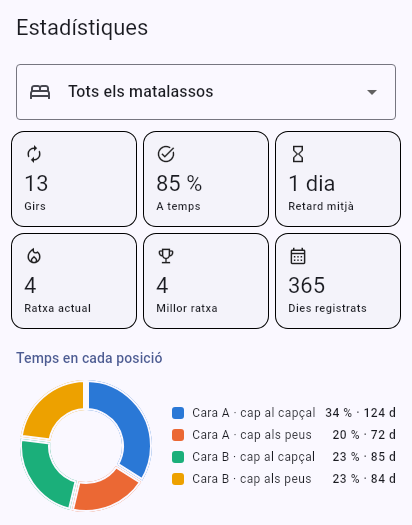
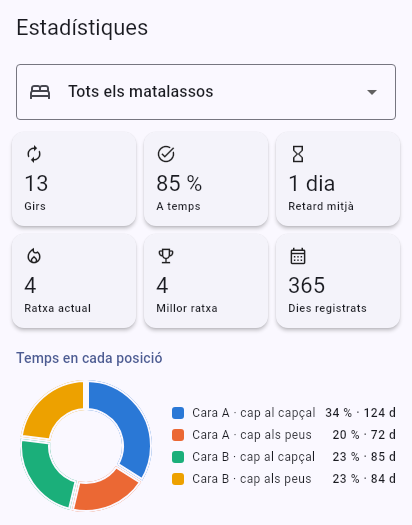
Capturas reales de la app en la portada, los pasos y Anúnciate
La portada muestra la pantalla de inicio en un móvil, cada paso de
«Cómo funciona» lleva su pantalla (aspecto, ficha y giro) y la tarjeta
de ejemplo para anunciantes usa la imagen de prueba. Las estadísticas se
regeneran con sombras reales. Todo en los tres idiomas.

Claude-Session: https://claude.ai/code/session_011JNAfkGeRBWKFEiTMfRujW

diff --git a/docs/404.html b/docs/404.html
@@ -15,7 +15,7 @@
 <meta name="theme-color" content="#2e3a73">
 <link rel="icon" type="image/png" href="/assets/img/favicon.png">
 <link rel="apple-touch-icon" href="/assets/img/apple-touch-icon.png">
-<link rel="stylesheet" href="/assets/style.css?v=9cc65efa71">
+<link rel="stylesheet" href="/assets/style.css?v=c40c323f0d">
 </head>
 <body>
 <section class="hero">
@@ -35,7 +35,7 @@
 <span class="btn btn-play" aria-disabled="true"><span class="btn-2l"><small>Próximamente en</small><span>Google Play</span></span></span>
 </div>
 </div>
-<div class="hero-art"><img src="/assets/img/flip_mid.png" alt="Dibujo de la app: un colchón volteándose sobre la cama" width="400" height="280"></div>
+<div class="hero-phone"><img src="/assets/img/pantalla_inicio_es.webp" alt="Pantalla de inicio de GiraColchón con tres colchones de distinto aspecto; a la cama de matrimonio le toca girar hoy" width="412" height="620"></div>
 </div>
 </div>
 </section>
@@ -47,7 +47,7 @@
 </div></section>
 <section class="section" id="como-funciona"><div class="wrap">
 <div class="stack"><div class="kicker">Cómo funciona</div><h2 class="section-title">Tres pasos y te olvidas del calendario</h2></div>
-<ol class="steps grid-3"><li class="card"><div class="num">1</div><h3>Añade tu colchón</h3><p class="muted">Nombre, medidas y cómo se gira: solo cabeza y pies, con volteo o con cara de invierno y de verano.</p></li><li class="card"><div class="num">2</div><h3>Recibe el aviso</h3><p class="muted">Cada semana, cada mes o al cambiar de estación, a la hora que elijas. Si se te pasa, te lo recuerda al día siguiente.</p></li><li class="card"><div class="num">3</div><h3>Gira y confirma</h3><p class="muted">Una animación te enseña qué movimiento toca. Lo confirmas y queda en el historial.</p></li></ol>
+<ol class="steps grid-3"><li class="card"><img class="step-shot" src="/assets/img/pantalla_aspecto_es.webp" alt="Formulario del colchón: forma de la cabecera y colores de la cabecera y del somier" width="412" height="560" loading="lazy"><div class="num">1</div><h3>Añade tu colchón</h3><p class="muted">Nombre, medidas y cómo se gira: solo cabeza y pies, con volteo o con cara de invierno y de verano.</p></li><li class="card"><img class="step-shot" src="/assets/img/pantalla_ficha_es.webp" alt="Ficha del colchón: próximo giro hoy, con los botones Girar ahora, Historial y Estadísticas" width="412" height="560" loading="lazy"><div class="num">2</div><h3>Recibe el aviso</h3><p class="muted">Cada semana, cada mes o al cambiar de estación, a la hora que elijas. Si se te pasa, te lo recuerda al día siguiente.</p></li><li class="card"><img class="step-shot" src="/assets/img/pantalla_giro_es.webp" alt="Pantalla de giro: animación que muestra cómo rotar el colchón de la cabeza a los pies" width="412" height="560" loading="lazy"><div class="num">3</div><h3>Gira y confirma</h3><p class="muted">Una animación te enseña qué movimiento toca. Lo confirmas y queda en el historial.</p></li></ol>
 </div></section>
 <section class="section" id="funciones" style="padding-top:0"><div class="wrap">
 <h2 class="section-title">Todo lo que necesita un colchón para durar más</h2>

diff --git a/docs/index.html b/docs/index.html
@@ -15,7 +15,7 @@
 <meta name="theme-color" content="#2e3a73">
 <link rel="icon" type="image/png" href="assets/img/favicon.png">
 <link rel="apple-touch-icon" href="assets/img/apple-touch-icon.png">
-<link rel="stylesheet" href="assets/style.css?v=9cc65efa71">
+<link rel="stylesheet" href="assets/style.css?v=c40c323f0d">
 </head>
 <body>
 <section class="hero">
@@ -35,7 +35,7 @@
 <span class="btn btn-play" aria-disabled="true"><span class="btn-2l"><small>Próximamente en</small><span>Google Play</span></span></span>
 </div>
 </div>
-<div class="hero-art"><img src="assets/img/flip_mid.png" alt="Dibujo de la app: un colchón volteándose sobre la cama" width="400" height="280"></div>
+<div class="hero-phone"><img src="assets/img/pantalla_inicio_es.webp" alt="Pantalla de inicio de GiraColchón con tres colchones de distinto aspecto; a la cama de matrimonio le toca girar hoy" width="412" height="620"></div>
 </div>
 </div>
 </section>
@@ -47,7 +47,7 @@
 </div></section>
 <section class="section" id="como-funciona"><div class="wrap">
 <div class="stack"><div class="kicker">Cómo funciona</div><h2 class="section-title">Tres pasos y te olvidas del calendario</h2></div>
-<ol class="steps grid-3"><li class="card"><div class="num">1</div><h3>Añade tu colchón</h3><p class="muted">Nombre, medidas y cómo se gira: solo cabeza y pies, con volteo o con cara de invierno y de verano.</p></li><li class="card"><div class="num">2</div><h3>Recibe el aviso</h3><p class="muted">Cada semana, cada mes o al cambiar de estación, a la hora que elijas. Si se te pasa, te lo recuerda al día siguiente.</p></li><li class="card"><div class="num">3</div><h3>Gira y confirma</h3><p class="muted">Una animación te enseña qué movimiento toca. Lo confirmas y queda en el historial.</p></li></ol>
+<ol class="steps grid-3"><li class="card"><img class="step-shot" src="assets/img/pantalla_aspecto_es.webp" alt="Formulario del colchón: forma de la cabecera y colores de la cabecera y del somier" width="412" height="560" loading="lazy"><div class="num">1</div><h3>Añade tu colchón</h3><p class="muted">Nombre, medidas y cómo se gira: solo cabeza y pies, con volteo o con cara de invierno y de verano.</p></li><li class="card"><img class="step-shot" src="assets/img/pantalla_ficha_es.webp" alt="Ficha del colchón: próximo giro hoy, con los botones Girar ahora, Historial y Estadísticas" width="412" height="560" loading="lazy"><div class="num">2</div><h3>Recibe el aviso</h3><p class="muted">Cada semana, cada mes o al cambiar de estación, a la hora que elijas. Si se te pasa, te lo recuerda al día siguiente.</p></li><li class="card"><img class="step-shot" src="assets/img/pantalla_giro_es.webp" alt="Pantalla de giro: animación que muestra cómo rotar el colchón de la cabeza a los pies" width="412" height="560" loading="lazy"><div class="num">3</div><h3>Gira y confirma</h3><p class="muted">Una animación te enseña qué movimiento toca. Lo confirmas y queda en el historial.</p></li></ol>
 </div></section>
 <section class="section" id="funciones" style="padding-top:0"><div class="wrap">
 <h2 class="section-title">Todo lo que necesita un colchón para durar más</h2>

diff --git a/docs/en/index.html b/docs/en/index.html
@@ -15,7 +15,7 @@
 <meta name="theme-color" content="#2e3a73">
 <link rel="icon" type="image/png" href="../assets/img/favicon.png">
 <link rel="apple-touch-icon" href="../assets/img/apple-touch-icon.png">
-<link rel="stylesheet" href="../assets/style.css?v=9cc65efa71">
+<link rel="stylesheet" href="../assets/style.css?v=c40c323f0d">
 </head>
 <body>
 <section class="hero">
@@ -35,7 +35,7 @@
 <span class="btn btn-play" aria-disabled="true"><span class="btn-2l"><small>Coming soon to</small><span>Google Play</span></span></span>
 </div>
 </div>
-<div class="hero-art"><img src="../assets/img/flip_mid.png" alt="Drawing from the app: a mattress flipping over on the bed" width="400" height="280"></div>
+<div class="hero-phone"><img src="../assets/img/pantalla_inicio_en.webp" alt="GiraColchón home screen with three mattresses that look different; the double bed is due for turning today" width="412" height="620"></div>
 </div>
 </div>
 </section>
@@ -47,7 +47,7 @@
 </div></section>
 <section class="section" id="como-funciona"><div class="wrap">
 <div class="stack"><div class="kicker">How it works</div><h2 class="section-title">Three steps and you can forget the calendar</h2></div>
-<ol class="steps grid-3"><li class="card"><div class="num">1</div><h3>Add your mattress</h3><p class="muted">Name, size and how it is turned: head to foot only, with flipping, or with a winter and a summer side.</p></li><li class="card"><div class="num">2</div><h3>Get the reminder</h3><p class="muted">Every week, every month or when the season changes, at the time you choose. If you miss it, it reminds you the next day.</p></li><li class="card"><div class="num">3</div><h3>Turn it and confirm</h3><p class="muted">An animation shows you which move is next. Confirm it and it goes into the history.</p></li></ol>
+<ol class="steps grid-3"><li class="card"><img class="step-shot" src="../assets/img/pantalla_aspecto_en.webp" alt="Mattress form: headboard shape and headboard and base colours" width="412" height="560" loading="lazy"><div class="num">1</div><h3>Add your mattress</h3><p class="muted">Name, size and how it is turned: head to foot only, with flipping, or with a winter and a summer side.</p></li><li class="card"><img class="step-shot" src="../assets/img/pantalla_ficha_en.webp" alt="Mattress page: next turn today, with Turn now, History and Statistics buttons" width="412" height="560" loading="lazy"><div class="num">2</div><h3>Get the reminder</h3><p class="muted">Every week, every month or when the season changes, at the time you choose. If you miss it, it reminds you the next day.</p></li><li class="card"><img class="step-shot" src="../assets/img/pantalla_giro_en.webp" alt="Turning screen: an animation showing how to rotate the mattress head to foot" width="412" height="560" loading="lazy"><div class="num">3</div><h3>Turn it and confirm</h3><p class="muted">An animation shows you which move is next. Confirm it and it goes into the history.</p></li></ol>
 </div></section>
 <section class="section" id="funciones" style="padding-top:0"><div class="wrap">
 <h2 class="section-title">Everything a mattress needs to last longer</h2>

diff --git a/docs/ca/index.html b/docs/ca/index.html
@@ -15,7 +15,7 @@
 <meta name="theme-color" content="#2e3a73">
 <link rel="icon" type="image/png" href="../assets/img/favicon.png">
 <link rel="apple-touch-icon" href="../assets/img/apple-touch-icon.png">
-<link rel="stylesheet" href="../assets/style.css?v=9cc65efa71">
+<link rel="stylesheet" href="../assets/style.css?v=c40c323f0d">
 </head>
 <body>
 <section class="hero">
@@ -35,7 +35,7 @@
 <span class="btn btn-play" aria-disabled="true"><span class="btn-2l"><small>Prompte a</small><span>Google Play</span></span></span>
 </div>
 </div>
-<div class="hero-art"><img src="../assets/img/flip_mid.png" alt="Dibuix de l&#x27;app: un matalàs que es volteja sobre el llit" width="400" height="280"></div>
+<div class="hero-phone"><img src="../assets/img/pantalla_inicio_ca.webp" alt="Pantalla d&#x27;inici de GiraColchón amb tres matalassos d&#x27;aspecte diferent; al llit de matrimoni li toca girar hui" width="412" height="620"></div>
 </div>
 </div>
 </section>
@@ -47,7 +47,7 @@
 </div></section>
 <section class="section" id="como-funciona"><div class="wrap">
 <div class="stack"><div class="kicker">Com funciona</div><h2 class="section-title">Tres passos i t'oblides del calendari</h2></div>
-<ol class="steps grid-3"><li class="card"><div class="num">1</div><h3>Afig el teu matalàs</h3><p class="muted">Nom, mides i com es gira: només cap i peus, amb volteig o amb cara d'hivern i d'estiu.</p></li><li class="card"><div class="num">2</div><h3>Rep l'avís</h3><p class="muted">Cada setmana, cada mes o en canviar d'estació, a l'hora que tries. Si se't passa, t'ho recorda l'endemà.</p></li><li class="card"><div class="num">3</div><h3>Gira i confirma</h3><p class="muted">Una animació t'ensenya quin moviment toca. Ho confirmes i queda en l'historial.</p></li></ol>
+<ol class="steps grid-3"><li class="card"><img class="step-shot" src="../assets/img/pantalla_aspecto_ca.webp" alt="Formulari del matalàs: forma del capçal i colors del capçal i del somier" width="412" height="560" loading="lazy"><div class="num">1</div><h3>Afig el teu matalàs</h3><p class="muted">Nom, mides i com es gira: només cap i peus, amb volteig o amb cara d'hivern i d'estiu.</p></li><li class="card"><img class="step-shot" src="../assets/img/pantalla_ficha_ca.webp" alt="Fitxa del matalàs: pròxim gir hui, amb els botons Gira ara, Historial i Estadístiques" width="412" height="560" loading="lazy"><div class="num">2</div><h3>Rep l'avís</h3><p class="muted">Cada setmana, cada mes o en canviar d'estació, a l'hora que tries. Si se't passa, t'ho recorda l'endemà.</p></li><li class="card"><img class="step-shot" src="../assets/img/pantalla_giro_ca.webp" alt="Pantalla de gir: animació que mostra com rotar el matalàs del cap als peus" width="412" height="560" loading="lazy"><div class="num">3</div><h3>Gira i confirma</h3><p class="muted">Una animació t'ensenya quin moviment toca. Ho confirmes i queda en l'historial.</p></li></ol>
 </div></section>
 <section class="section" id="funciones" style="padding-top:0"><div class="wrap">
 <h2 class="section-title">Tot el que necessita un matalàs per a durar més</h2>

diff --git a/docs/ca/anuncia-t/index.html b/docs/ca/anuncia-t/index.html
@@ -15,7 +15,7 @@
 <meta name="theme-color" content="#2e3a73">
 <link rel="icon" type="image/png" href="../../assets/img/favicon.png">
 <link rel="apple-touch-icon" href="../../assets/img/apple-touch-icon.png">
-<link rel="stylesheet" href="../../assets/style.css?v=9cc65efa71">
+<link rel="stylesheet" href="../../assets/style.css?v=c40c323f0d">
 </head>
 <body>
 <section class="hero">
@@ -43,8 +43,8 @@
 <div><h2 class="section-title">On apareix el teu anunci</h2><ol class="placements"><li><span class="dot">1</span><div><strong style="font-size:19px">Inici</strong><p class="muted">Davall de la llista de matalassos, cada vegada que s'obri l'app.</p></div></li><li><span class="dot">2</span><div><strong style="font-size:19px">Fi de la garantia</strong><p class="muted">En la fitxa del matalàs, quan la seua garantia està a punt d'acabar.</p></div></li><li><span class="dot">3</span><div><strong style="font-size:19px">Fi de la vida útil</strong><p class="muted">En la fitxa, quan el matalàs ha consumit el 90 % de la seua vida útil.</p></div></li><li><span class="dot">4</span><div><strong style="font-size:19px">Després de girar</strong><p class="muted">En confirmar un gir, al costat del missatge de «fet».</p></div></li></ol>
 <p class="muted" style="margin-top:24px">Targetes integrades en l'app: mai a pantalla completa ni en les notificacions.</p></div>
 <div class="phone"><div class="phone-screen">
-<div class="muted" style="font-size:13px;font-weight:600;padding:0 4px">Així es veu la targeta en l'app</div>
-<div class="ad"><div class="ad-img">Imatge<br>96 × 96</div><div class="ad-body">
+<div class="muted" style="font-size:13px;font-weight:600;padding:0 4px">Així es veu la targeta en l'app (exemple)</div>
+<div class="ad"><img class="ad-img" src="../../assets/img/demo-anuncio.png" alt="" width="96" height="96"><div class="ad-body">
 <span class="muted" style="font-size:11px">Patrocinat · La teua marca</span><strong>El títol de la teua oferta</strong>
 <span class="muted">Un text de fins a tres línies amb el que oferixes.</span><span class="ad-open">Veure oferta</span></div></div>
 </div></div>

diff --git a/docs/anunciate/index.html b/docs/anunciate/index.html
@@ -15,7 +15,7 @@
 <meta name="theme-color" content="#2e3a73">
 <link rel="icon" type="image/png" href="../assets/img/favicon.png">
 <link rel="apple-touch-icon" href="../assets/img/apple-touch-icon.png">
-<link rel="stylesheet" href="../assets/style.css?v=9cc65efa71">
+<link rel="stylesheet" href="../assets/style.css?v=c40c323f0d">
 </head>
 <body>
 <section class="hero">
@@ -43,8 +43,8 @@
 <div><h2 class="section-title">Dónde aparece tu anuncio</h2><ol class="placements"><li><span class="dot">1</span><div><strong style="font-size:19px">Inicio</strong><p class="muted">Debajo de la lista de colchones, cada vez que se abre la app.</p></div></li><li><span class="dot">2</span><div><strong style="font-size:19px">Fin de la garantía</strong><p class="muted">En la ficha del colchón, cuando su garantía está a punto de terminar.</p></div></li><li><span class="dot">3</span><div><strong style="font-size:19px">Fin de la vida útil</strong><p class="muted">En la ficha, cuando el colchón ha consumido el 90 % de su vida útil.</p></div></li><li><span class="dot">4</span><div><strong style="font-size:19px">Después de girar</strong><p class="muted">Al confirmar un giro, junto al mensaje de «hecho».</p></div></li></ol>
 <p class="muted" style="margin-top:24px">Tarjetas integradas en la app: nunca a pantalla completa ni en las notificaciones.</p></div>
 <div class="phone"><div class="phone-screen">
-<div class="muted" style="font-size:13px;font-weight:600;padding:0 4px">Así se ve la tarjeta en la app</div>
-<div class="ad"><div class="ad-img">Imagen<br>96 × 96</div><div class="ad-body">
+<div class="muted" style="font-size:13px;font-weight:600;padding:0 4px">Así se ve la tarjeta en la app (ejemplo)</div>
+<div class="ad"><img class="ad-img" src="../assets/img/demo-anuncio.png" alt="" width="96" height="96"><div class="ad-body">
 <span class="muted" style="font-size:11px">Patrocinado · Tu marca</span><strong>El título de tu oferta</strong>
 <span class="muted">Un texto de hasta tres líneas con lo que ofreces.</span><span class="ad-open">Ver oferta</span></div></div>
 </div></div>

diff --git a/docs/en/advertise/index.html b/docs/en/advertise/index.html
@@ -15,7 +15,7 @@
 <meta name="theme-color" content="#2e3a73">
 <link rel="icon" type="image/png" href="../../assets/img/favicon.png">
 <link rel="apple-touch-icon" href="../../assets/img/apple-touch-icon.png">
-<link rel="stylesheet" href="../../assets/style.css?v=9cc65efa71">
+<link rel="stylesheet" href="../../assets/style.css?v=c40c323f0d">
 </head>
 <body>
 <section class="hero">
@@ -43,8 +43,8 @@
 <div><h2 class="section-title">Where your ad appears</h2><ol class="placements"><li><span class="dot">1</span><div><strong style="font-size:19px">Home</strong><p class="muted">Below the list of mattresses, every time the app opens.</p></div></li><li><span class="dot">2</span><div><strong style="font-size:19px">Warranty ending</strong><p class="muted">On the mattress page, when its warranty is about to end.</p></div></li><li><span class="dot">3</span><div><strong style="font-size:19px">Lifespan ending</strong><p class="muted">On the mattress page, when the mattress has used 90% of its lifespan.</p></div></li><li><span class="dot">4</span><div><strong style="font-size:19px">After turning</strong><p class="muted">When a turn is confirmed, next to the “done” message.</p></div></li></ol>
 <p class="muted" style="margin-top:24px">Cards built into the app: never full screen and never in notifications.</p></div>
 <div class="phone"><div class="phone-screen">
-<div class="muted" style="font-size:13px;font-weight:600;padding:0 4px">This is how the card looks in the app</div>
-<div class="ad"><div class="ad-img">Image<br>96 × 96</div><div class="ad-body">
+<div class="muted" style="font-size:13px;font-weight:600;padding:0 4px">This is how the card looks in the app (example)</div>
+<div class="ad"><img class="ad-img" src="../../assets/img/demo-anuncio.png" alt="" width="96" height="96"><div class="ad-body">
 <span class="muted" style="font-size:11px">Sponsored · Your brand</span><strong>Your offer's title</strong>
 <span class="muted">Up to three lines of text about what you offer.</span><span class="ad-open">See offer</span></div></div>
 </div></div>

diff --git a/docs/assets/style.css b/docs/assets/style.css
@@ -98,6 +98,15 @@ p { margin: 0; }
   border-radius: 32px; padding: 20px;
 }
 .hero-art img { display: block; width: 100%; border-radius: 20px; background: var(--ground); }
+.hero-phone {
+  width: min(330px, 100%); justify-self: end; border-radius: 44px; background: #0f1226; padding: 10px;
+  box-shadow: 0 30px 80px rgba(10,12,40,.45);
+}
+.hero-phone img { display: block; width: 100%; height: auto; border-radius: 34px; }
+.step-shot {
+  display: block; width: 100%; height: auto; aspect-ratio: 412 / 560; object-fit: cover;
+  object-position: top; border-radius: 16px; border: 1px solid var(--line); margin-bottom: 8px;
+}
 .actions { display: flex; flex-wrap: wrap; gap: 16px; align-items: center; padding-top: 8px; }
 
 .btn {
@@ -185,10 +194,7 @@ p { margin: 0; }
 }
 .phone-screen { border-radius: 30px; background: var(--ground); padding: 28px 16px 36px; display: flex; flex-direction: column; gap: 12px; }
 .ad { background: #fff; border: 1px solid var(--line); border-radius: 16px; display: flex; overflow: hidden; }
-.ad-img {
-  width: 96px; min-height: 96px; flex-shrink: 0; background: var(--tint); display: flex;
-  align-items: center; justify-content: center; font-size: 11px; color: var(--muted); text-align: center;
-}
+.ad-img { width: 96px; height: 96px; flex-shrink: 0; object-fit: cover; }
 .ad-body { padding: 12px; display: flex; flex-direction: column; gap: 4px; flex-grow: 1; font-size: 13px; }
 .ad-body strong { font-size: 15px; }
 .ad-open { align-self: flex-end; font-weight: 700; color: var(--link); font-size: 14px; }
@@ -229,6 +235,7 @@ p { margin: 0; }
   .brand img { width: 36px; height: 36px; }
   .hero-body, .privacy, .two-col, .legal, .stats { grid-template-columns: minmax(0, 1fr); }
   .hero-body { padding: 24px 0 56px; }
+  .hero-phone { justify-self: center; width: min(280px, 100%); }
   .grid-3, .grid-2 { grid-template-columns: minmax(0, 1fr); gap: 16px; }
   .features { gap: 24px; }
   .split, .cta { flex-direction: column; align-items: flex-start; }

diff --git a/src/style.css b/src/style.css
@@ -98,6 +98,15 @@ p { margin: 0; }
   border-radius: 32px; padding: 20px;
 }
 .hero-art img { display: block; width: 100%; border-radius: 20px; background: var(--ground); }
+.hero-phone {
+  width: min(330px, 100%); justify-self: end; border-radius: 44px; background: #0f1226; padding: 10px;
+  box-shadow: 0 30px 80px rgba(10,12,40,.45);
+}
+.hero-phone img { display: block; width: 100%; height: auto; border-radius: 34px; }
+.step-shot {
+  display: block; width: 100%; height: auto; aspect-ratio: 412 / 560; object-fit: cover;
+  object-position: top; border-radius: 16px; border: 1px solid var(--line); margin-bottom: 8px;
+}
 .actions { display: flex; flex-wrap: wrap; gap: 16px; align-items: center; padding-top: 8px; }
 
 .btn {
@@ -185,10 +194,7 @@ p { margin: 0; }
 }
 .phone-screen { border-radius: 30px; background: var(--ground); padding: 28px 16px 36px; display: flex; flex-direction: column; gap: 12px; }
 .ad { background: #fff; border: 1px solid var(--line); border-radius: 16px; display: flex; overflow: hidden; }
-.ad-img {
-  width: 96px; min-height: 96px; flex-shrink: 0; background: var(--tint); display: flex;
-  align-items: center; justify-content: center; font-size: 11px; color: var(--muted); text-align: center;
-}
+.ad-img { width: 96px; height: 96px; flex-shrink: 0; object-fit: cover; }
 .ad-body { padding: 12px; display: flex; flex-direction: column; gap: 4px; flex-grow: 1; font-size: 13px; }
 .ad-body strong { font-size: 15px; }
 .ad-open { align-self: flex-end; font-weight: 700; color: var(--link); font-size: 14px; }
@@ -229,6 +235,7 @@ p { margin: 0; }
   .brand img { width: 36px; height: 36px; }
   .hero-body, .privacy, .two-col, .legal, .stats { grid-template-columns: minmax(0, 1fr); }
   .hero-body { padding: 24px 0 56px; }
+  .hero-phone { justify-self: center; width: min(280px, 100%); }
   .grid-3, .grid-2 { grid-template-columns: minmax(0, 1fr); gap: 16px; }
   .features { gap: 24px; }
   .split, .cta { flex-direction: column; align-items: flex-start; }

diff --git a/docs/ca/privacitat/index.html b/docs/ca/privacitat/index.html
@@ -15,7 +15,7 @@
 <meta name="theme-color" content="#2e3a73">
 <link rel="icon" type="image/png" href="../../assets/img/favicon.png">
 <link rel="apple-touch-icon" href="../../assets/img/apple-touch-icon.png">
-<link rel="stylesheet" href="../../assets/style.css?v=9cc65efa71">
+<link rel="stylesheet" href="../../assets/style.css?v=c40c323f0d">
 </head>
 <body>
 <section class="hero">

diff --git a/docs/en/privacy/index.html b/docs/en/privacy/index.html
@@ -15,7 +15,7 @@
 <meta name="theme-color" content="#2e3a73">
 <link rel="icon" type="image/png" href="../../assets/img/favicon.png">
 <link rel="apple-touch-icon" href="../../assets/img/apple-touch-icon.png">
-<link rel="stylesheet" href="../../assets/style.css?v=9cc65efa71">
+<link rel="stylesheet" href="../../assets/style.css?v=c40c323f0d">
 </head>
 <body>
 <section class="hero">

diff --git a/docs/privacidad/index.html b/docs/privacidad/index.html
@@ -15,7 +15,7 @@
 <meta name="theme-color" content="#2e3a73">
 <link rel="icon" type="image/png" href="../assets/img/favicon.png">
 <link rel="apple-touch-icon" href="../assets/img/apple-touch-icon.png">
-<link rel="stylesheet" href="../assets/style.css?v=9cc65efa71">
+<link rel="stylesheet" href="../assets/style.css?v=c40c323f0d">
 </head>
 <body>
 <section class="hero">
